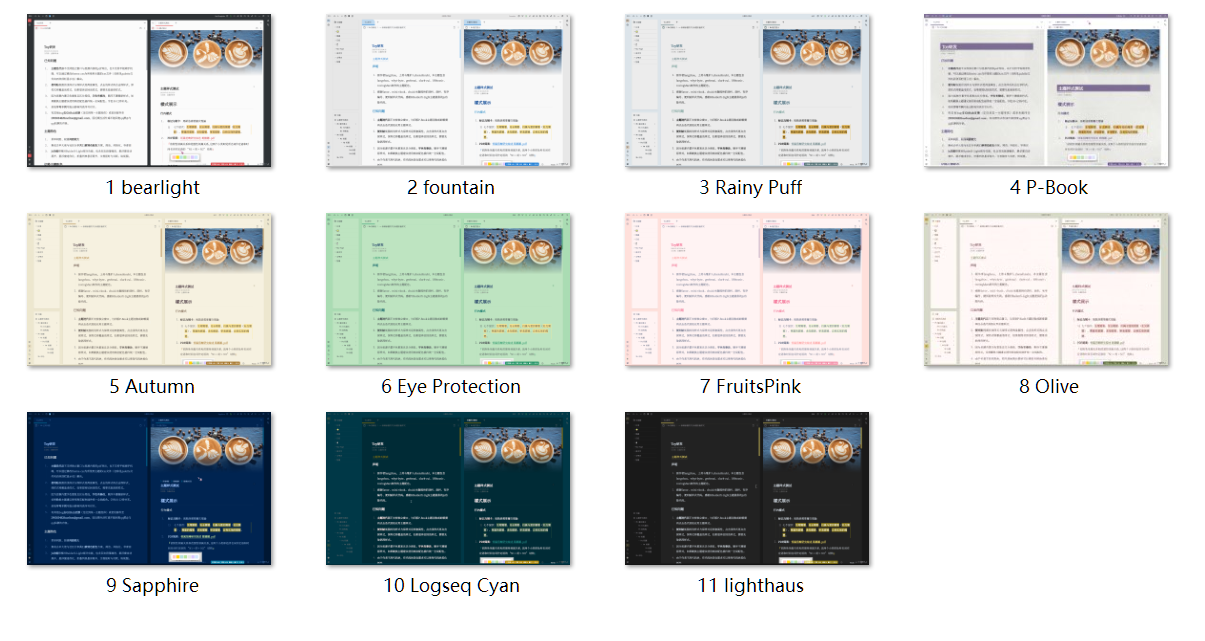
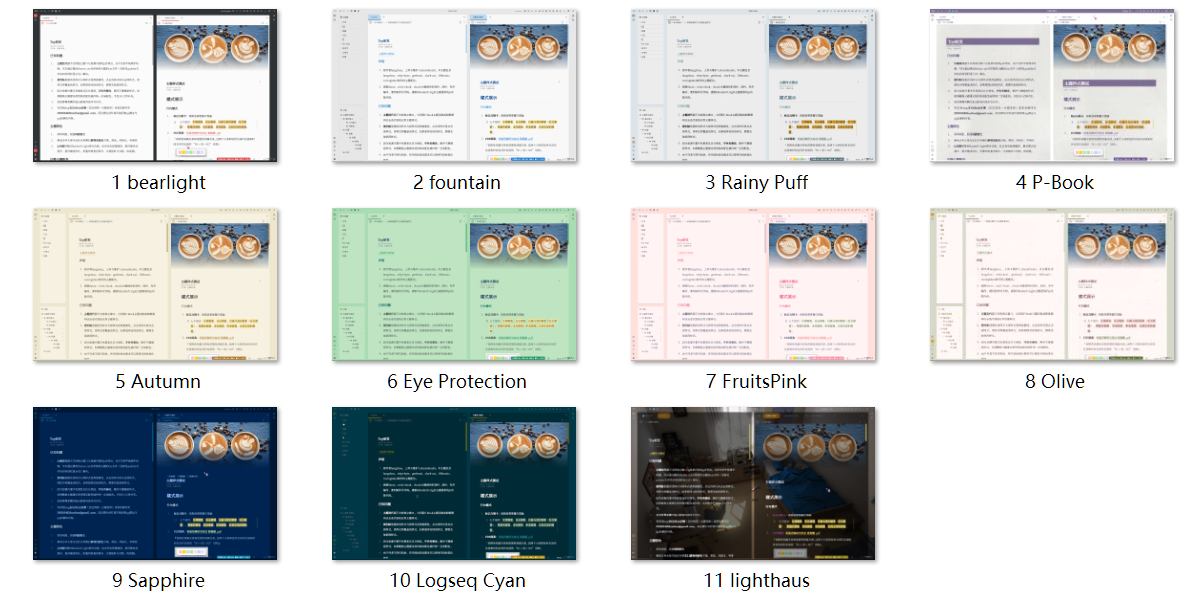
1.4.2

Changed region(s): [[0.0, 0.0, 0.7375, 0.9562], [0.7683, 0.0, 0.9834, 0.6477]]

diff --git a/palette/lighthaus.css b/palette/lighthaus.css
@@ -1,7 +1,6 @@
 .layout--float.layout__dockl .fn__flex.fn__flex-1, .layout--float.layout__dockr .fn__flex.fn__flex-1 {
    background-color:transparent;
 }
-
 /******* 深色主题配色模板 **********/
 :root {
     /* 主色 */
@@ -143,7 +142,8 @@
     /**** 配色 ****/
     --dock-background:              var(--b3-theme-surface); /* 顶栏、dock 栏背景色 */
     --left-sidebar-background:      var(--b3-theme-surface); /* 左边栏背景色 */
-    --left-sidebar-color:           var(--b3-theme-on-surface); /* 左边栏文字颜色 */
+    --left-sidebar-color:           #bababa; /* 左边栏文字颜色 */
+   --b3-toolbar-color:#bababa;
     --caret-color:                  var(--b3-theme-primary); /* 光标颜色 */
     --text-selection-background:    var(--b3-theme-primary-lighter); /* 文本选中背景色 */
     --text-selection-color:         inherit; /* 文本选中颜色 */
@@ -187,6 +187,7 @@
     --page-scrollbar-transition: opacity 800ms ease 0s; /* 分页加载条动画 */
     --flex-column-transition:    width 200ms cubic-bezier(0, 0.7, 0.4, 1); /* 侧边栏动画 */
     --common-transition:         all 1s cubic-bezier(0, 0.7, .2, 1) 0ms;   /* 通用动画 */
+    --blockquery:var(--b3-theme-surface-lighter);
 }
 
 /* 调整背景色设置时的字体颜色 */
@@ -221,10 +222,11 @@ strong[style*="background-color: var(--b3-font-background13)"]{
     opacity: 1;
     color: var(--b3-toolbar-color);
 }
+
 .protyle-wysiwyg ::selection{ 
     background-color:#ea92004d !important;
 }
-.b3-typography strong, .b3-typography span[data-type~=strong], .protyle-wysiwyg strong, .protyle-wysiwyg span[data-type~=strong] {
+.b3-typography strong, .b3-typography span[data-type~=strong], .protyle-wysiwyg strong, .protyle-wysiwyg span[data-type~=strong],.b3-typography .h1, .b3-typography h1, .b3-typography .h2, .b3-typography h2, .b3-typography .h3, .b3-typography h3, .b3-typography .h4, .b3-typography h4, .b3-typography .h5, .b3-typography h5, .b3-typography .h6, .b3-typography h6, .protyle-wysiwyg .h1, .protyle-wysiwyg h1, .protyle-wysiwyg .h2, .protyle-wysiwyg h2, .protyle-wysiwyg .h3, .protyle-wysiwyg h3, .protyle-wysiwyg .h4, .protyle-wysiwyg h4, .protyle-wysiwyg .h5, .protyle-wysiwyg h5, .protyle-wysiwyg .h6, .protyle-wysiwyg h6 {
     color:rgba(255, 255, 255, 0.9);
 }
 .status__counter:not(:empty) {
@@ -239,7 +241,79 @@ strong[style*="background-color: var(--b3-font-background13)"]{
 .card__action .b3-button {
    opacity:0.8;
 }
-.fn__flex-shrink, .fn__flex-shrink .block__icons {
+.b3-typography blockquote::before, .b3-typography .bq::before, .protyle-wysiwyg blockquote::before, .protyle-wysiwyg .bq::before {
+   content:"“";
+   color:var(--quote-border-color);
+   display:block;
+   font-size:400%;
+   position:absolute;
+   margin-left:-70px;
+}
+.b3-typography blockquote, .b3-typography .bq, .protyle-wysiwyg blockquote, .protyle-wysiwyg .bq {
+    background-color:transparent;
+    border-left:none;
+    padding-top:10px;
+    padding-bottom:5px;
+   border-radius:30px 0 0 0 !important;
+   padding-left:20px;
+   padding-right:10px;
+    color: #f8f8f8dd;
+border: 3px solid var(--b3-theme-surface-lighter);
+}
+/*room移植*/
+[data-type='wnd']::before {
+    content: '';
+    position: absolute;
+    top: 0;
+    left: 0;
+    right: 0;
+    bottom: 0;
+    z-index: -3;
+   /* background-image: var(--allen-background-image);*/
+    background-position: center top;
+    background-size: cover;
+    background-attachment: fixed;
+    background: rgb(0 0 0 / 58%);
+    /*backdrop-filter: blur(140px);*/
+}
+.fn__flex-1.fn__flex [data-type='wnd'] {
+    background: transparent;
+    margin: 0px auto;
+    padding: 2px 10px;
+    position: relative;
+    margin: 10px;
+    box-shadow: 2px 5px 4px 3px #00000038;
+    overflow: hidden;
+    z-index: 2;
+    box-sizing: border-box;
+    border-radius: 6px;
+}
+[data-type='wnd'] .layout-tab-container, [data-type='wnd'] .protyle, [data-type='wnd'] .protyle-content, [data-type='wnd'] .protyle-wysiwyg, .block__icons {
+    background: transparent;
+}
+.toolbar, #dockLeft, #dockRight, #dockTop, #dockBottom {
+    background: transparent;
+}
+.protyle-background__img img {
+    filter: brightness(0.6);
+}
+.b3-typography img, .protyle-wysiwyg img {
+    filter:brightness(0.6);
+}
+
+body {
+    background-color: white;
+    background-image: url(/appearance/themes/toy/src/lh.jpg);
+    background-position: center top;
+    background-size: cover;
+}
+.fn__flex.fn__flex-1 {
+   background-color:transparent;
+}
+.dock#dockBottom {
+   border-top:none;
+}
+/*.fn__flex-shrink, .fn__flex-shrink .block__icons {
    background-color:transparent;
 }
 
@@ -251,22 +325,91 @@ strong[style*="background-color: var(--b3-font-background13)"]{
 }
 .layout__resize--lr {
    opacity:0;
+}*/
+.layout__center .layout-tab-bar .item--focus {
+    border-radius: 40px;
+    background: #915d06b3;
 }
-.b3-typography blockquote::before, .b3-typography .bq::before, .protyle-wysiwyg blockquote::before, .protyle-wysiwyg .bq::before {
-   content:"“";
-   color:var(--quote-border-color);
-   display:block;
-   font-size:400%;
-   position:absolute;
-   margin-left:-70px;
+.layout__center .layout-tab-bar .item {
+    border: none;
+    margin: 0 4px;
+    padding-left: 20px;
+    transition: all 0.5s ease-in-out;
+    border-bottom:none;
 }
-.b3-typography blockquote, .b3-typography .bq, .protyle-wysiwyg blockquote, .protyle-wysiwyg .bq {
-    background-color:var(--b3-theme-surface-lighter);
-    border-left:none;
-    padding-top:10px;
-    padding-bottom:5px;
-   border-radius:30px 0 0 0 !important;
-   padding-left:20px;
-   padding-right:10px;
-    color: lemonchiffon;
+.layout--float.layout__dockl,.layout--float.layout__dockr {
+   border-radius:6px !important;
+}
+.layout-tab-bar {
+   background-color:transparent;
+}
+.layout__center .layout-tab-bar {
+    background: transparent;
+    padding: 6px;
+    border: none;
+}
+.layout__center .protyle-breadcrumb {
+    background: transparent;
+    margin-top: 5px;
+}
+#layouts div.layout__center div[data-type="wnd"] ul.layout-tab-bar .item.item--focus,#layouts div.layout__center div[data-type="wnd"] ul.layout-tab-bar .item {
+   border-bottom:none;
+}
+.layout__wnd--active .layout-tab-bar .item--focus:after {
+   display:none;
+}
+.b3-typography table td, .b3-typography table th, .protyle-wysiwyg table td, .protyle-wysiwyg table th {
+   background-color:#191919;
+}
+.b3-typography table tr:nth-child(2n) td, .protyle-wysiwyg table tr:nth-child(2n) td {
+   background-color:#222222;
+}
+.b3-typography table, .protyle-wysiwyg table,.protyle-wysiwyg .code-block, .b3-typography .code-block {
+   opacity:0.8;
+}
+.b3-typography table, .protyle-wysiwyg table {
+   color:#fff;
+}
+.block__popover>.block__icons,.block__popover .protyle {
+   background-color:rgba(0,0,0,0.75);
+}
+.block__popover {
+   background-color:transparent;
+}
+.block__popover .protyle-breadcrumb {
+   background-color:transparent;
+   border-bottom:1px solid #9f9f9f;
+}
+.protyle-toolbar {
+    background-color: #00000042;
+    backdrop-filter: blur(16px);
+}
+
+element.style {
+    top: 444.111px;
+    left: 1002.67px;
+}
+.b3-dialog__container, .b3-menu, .protyle-util {
+    border: none;
+}
+.protyle-util {
+    background-color: rgba(0,0,0,0.18);
+    backdrop-filter: blur(80px);
+}
+.b3-dialog__container {
+   background-color:rgba(0,0,0,0.7);
+   backdrop-filter:blur(90px);
+}
+.config__panel>.b3-tab-bar {
+    background-color: rgba(0,0,0,0.45);
+    border-radius: 10px 0px 0px 10px !important;
+}
+.config__tab-wrap {
+   background-color:rgba(0,0,0,0.37);
+}
+.protyle-util .b3-text-field.b3-text-field--text.fn__block,.b3-text-field, .pcr-app .pcr-interaction .pcr-result {
+   background-color:transparent;
+}
+#layouts div.layout__center div[data-type="wnd"] .layout-tab-container .protyle .protyle-content .protyle-background .protyle-background__img .protyle-icons {
+    background-color: rgba(255, 255, 255, 0.22);
 }

diff --git a/P-Book.css b/P-Book.css
@@ -2,6 +2,12 @@
     transform: scale(1.3) !important;
     margin: 2px 4px !important;
 }
+.protyle-icons {
+   display:inline-flex;
+}
+.protyle-background__icon:hover {
+   background-color:var(--b3-theme-primary-lightest) !important;
+}
 /*闪卡悬浮显示*/
 .card__main .protyle-wysiwyg span[data-type~=mark], [data-key="viewCards"] .protyle-wysiwyg span[data-type~=mark] {
     border-bottom:2px solid var(--b3-protyle-inline-mark-color);
@@ -278,11 +284,11 @@ border-top: 1px solid var(--b3-theme-surface-lighter) !important;
 }
 
 .b3-typography s, .b3-typography span[data-type~=s], .protyle-wysiwyg s, .protyle-wysiwyg span[data-type~=s] {
-   color:inherit !important;
+   color:inherit;
    opacity:0.6;
 }
 .b3-typography strong, .b3-typography span[data-type~=strong], .protyle-wysiwyg strong, .protyle-wysiwyg span[data-type~=strong] {
-   color:inherit !important;
+   color:inherit;
 }
 .protyle-wysiwyg [data-node-id].render-node[data-type=NodeBlockQueryEmbed]{
    background-color:transparent;

diff --git a/base.css b/base.css
@@ -1284,7 +1284,7 @@ margin: 0 !important;
     display: block;
 }
 #layouts div.layout__center div[data-type="wnd"] .layout-tab-container .protyle .protyle-content .protyle-background .protyle-background__img .protyle-icons {
-    background-color: rgba(255, 255, 255, 0.6) !important;
+    background-color: rgba(255, 255, 255, 0.6);
     position: absolute;
     color: var(--b3-theme-on-background)!important;
     height: 26px;

diff --git a/palette/logseqcyan.css b/palette/logseqcyan.css
@@ -1,7 +1,9 @@
 .layout--float.layout__dockl .fn__flex.fn__flex-1, .layout--float.layout__dockr .fn__flex.fn__flex-1 {
    background-color:transparent;
 }
-
+#layouts div.layout__center div[data-type="wnd"] .layout-tab-container .protyle .protyle-content .protyle-background .protyle-background__img .protyle-icons {
+    background-color: rgba(255, 255, 255, 0.22);
+}
 /******* Cyan Theme **********/
 :root {
     /* 主色 */

diff --git a/palette/sapphire.css b/palette/sapphire.css
@@ -1,7 +1,9 @@
 .layout--float.layout__dockl .fn__flex.fn__flex-1, .layout--float.layout__dockr .fn__flex.fn__flex-1 {
    background-color:transparent;
 }
-
+#layouts div.layout__center div[data-type="wnd"] .layout-tab-container .protyle .protyle-content .protyle-background .protyle-background__img .protyle-icons {
+    background-color: rgba(255, 255, 255, 0.22);
+}
 /******* Blue Theme **********/
 :root {
     /* 主色 */

diff --git a/README.md b/README.md
@@ -31,7 +31,7 @@
     |Olive|chenshinshi|☀|浅绿|浅粉|浅绿|中式古典清新|
     |Sapphire|langzhou|🌃|深蓝|深蓝|水蓝|深蓝色夜间主题|
     |Logseq Cyan|langzhou|🌃|深青|深青|黄|深绿色夜间主题|
-    |Lighthaus|langzhou|🌃|黑|黑|黄|黑色夜间主题|
+    |Lighthaus|VIWZ|🌃|黑|黑|黄|黑色夜间主题|
 
 ### 修改
 
